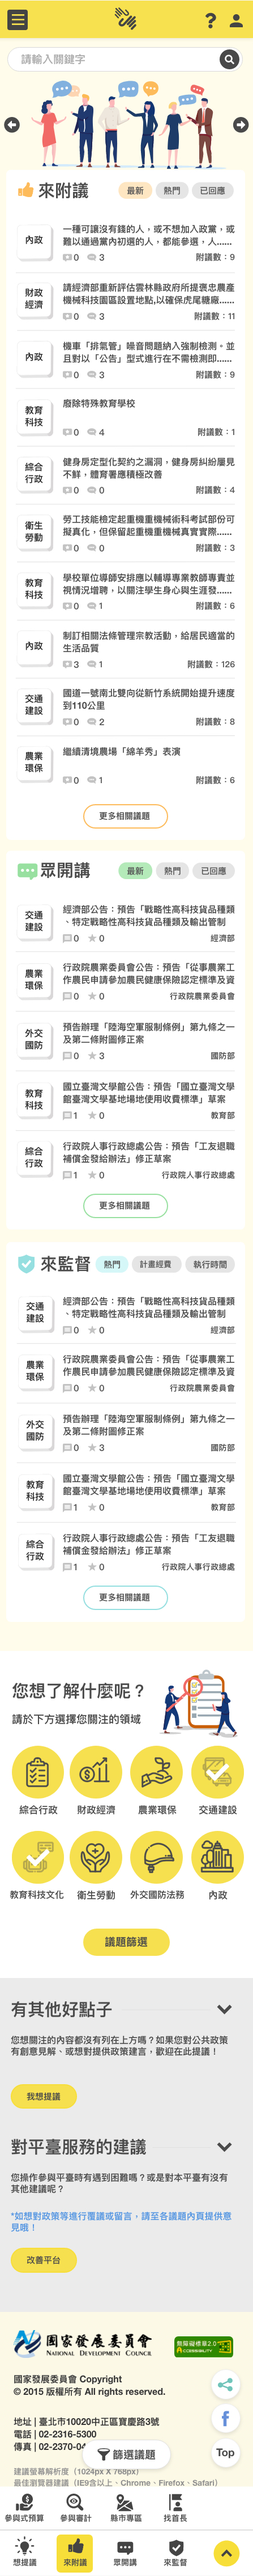
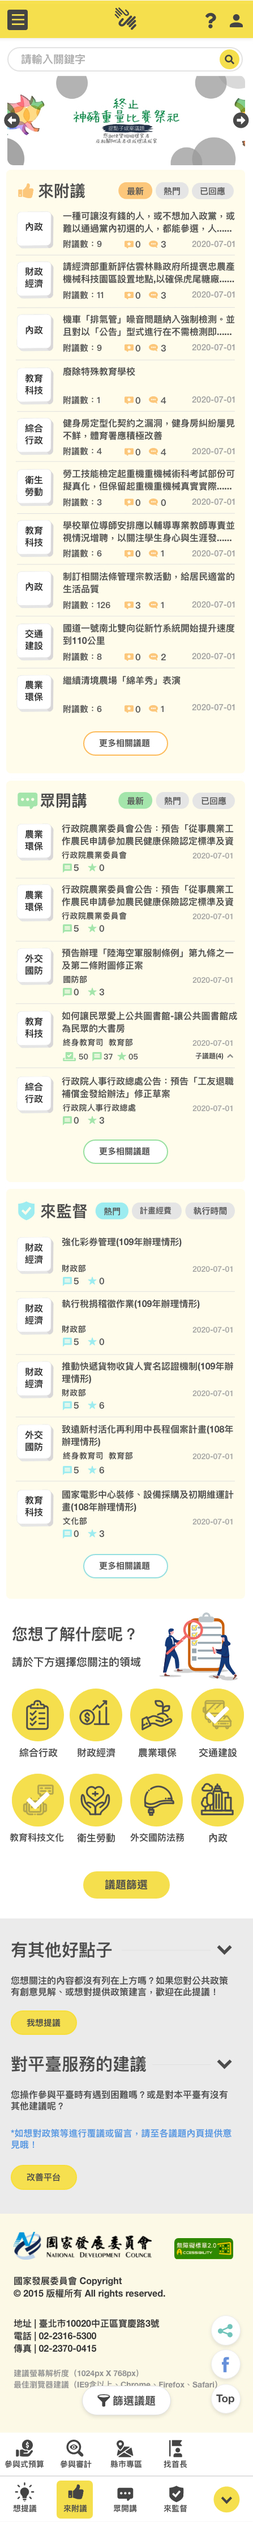
0112-公共政策參與平台更新

Changed region(s): [[0.0291, 0.0, 0.9888, 1.0]]

diff --git a/second-sociallogin-dialog.html b/second-sociallogin-dialog.html
@@ -1,0 +1,10 @@
+<!DOCTYPE html>
+
+<html lang="en">
+
+
+<body style="margin: 0px;">
+	<div style="background-image:url(../join/img/來附議-留言登入-社群登入留言-電腦版.jpg);background-repeat:no-repeat;background-position:top center;width:100%;height:4456px;"></div>
+</body>
+
+</html>

diff --git a/second-sociallogin-dialog-m.html b/second-sociallogin-dialog-m.html
@@ -1,0 +1,10 @@
+<!DOCTYPE html>
+
+<html lang="en">
+
+
+<body style="margin: 0px;">
+	<img style="width:100%;" src="./img/來附議-留言登入-社群登入留言-手機版.jpg" alt="">
+</body>
+
+</html>
